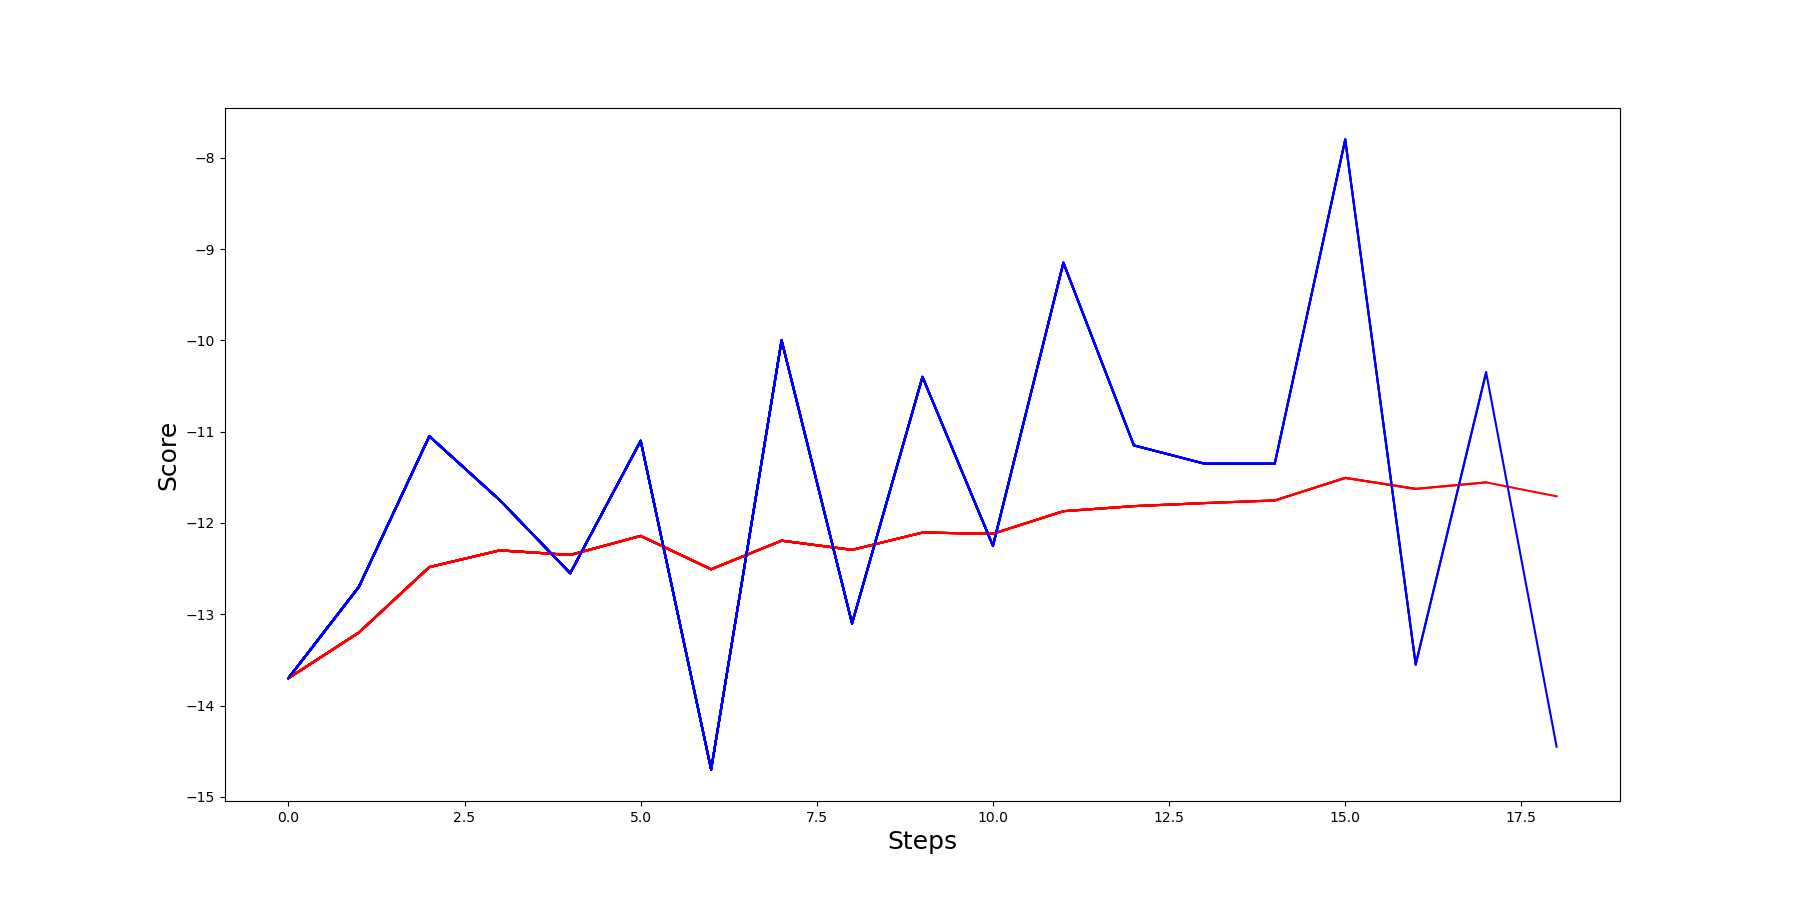
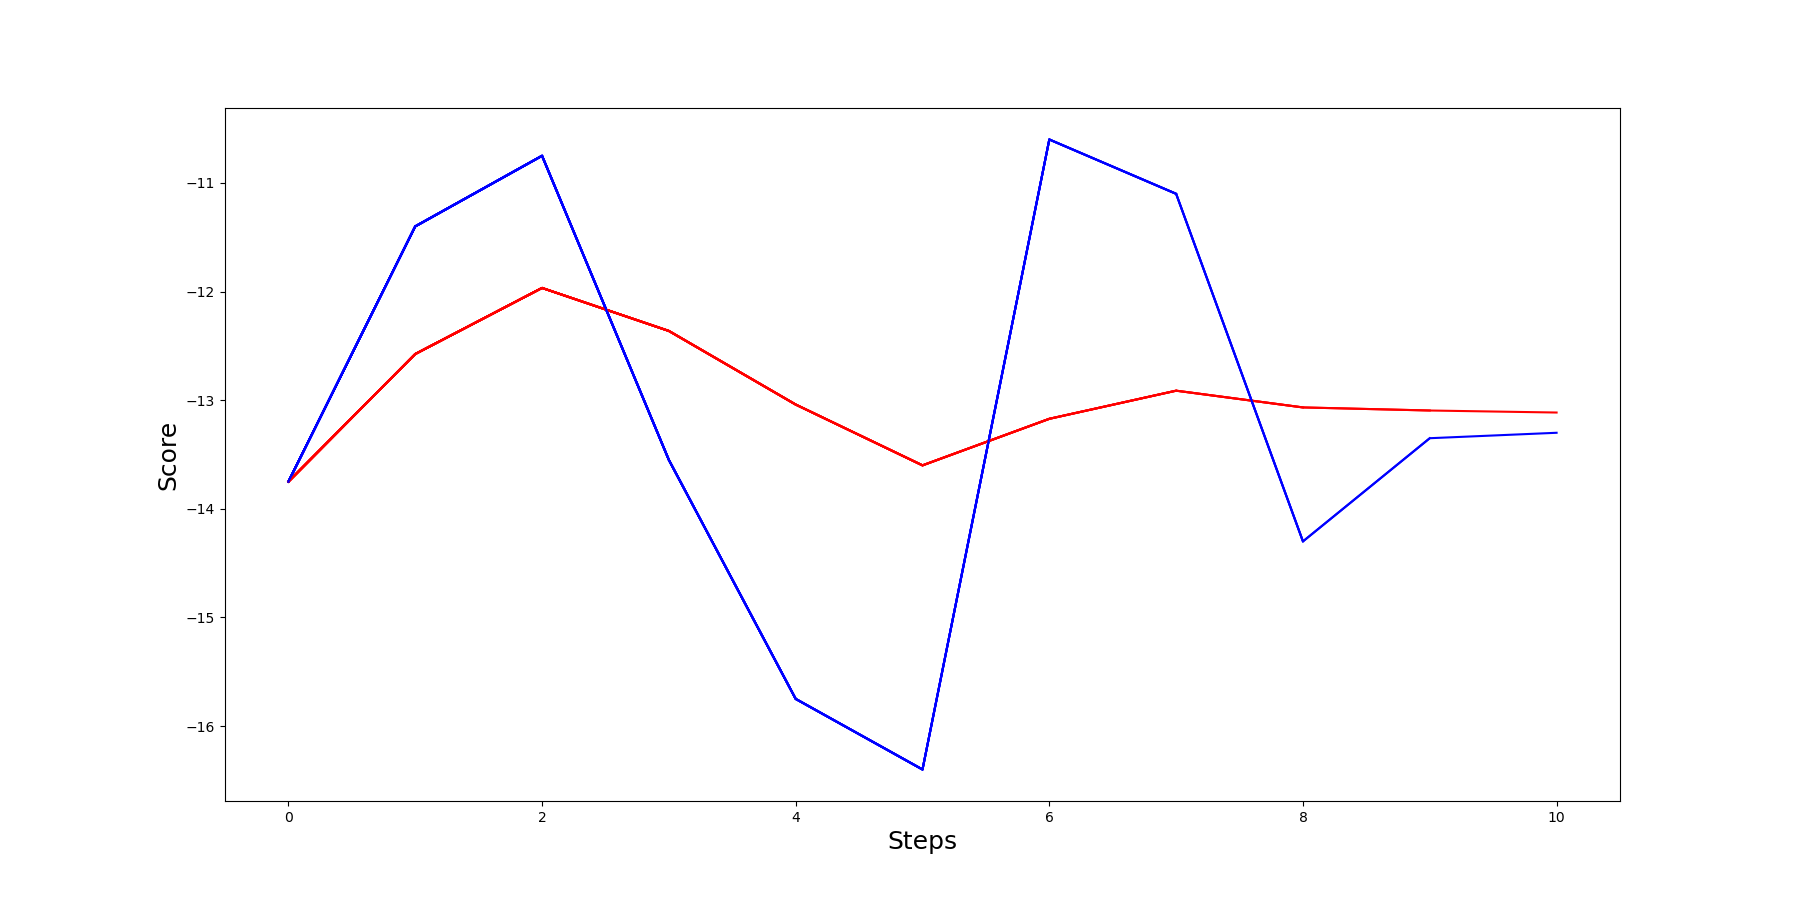
updated model

diff --git a/DQN_agent.py b/DQN_agent.py
@@ -5,7 +5,7 @@ import random
 import numpy as np
 from keras import Sequential
 from collections import deque
-from keras.layers import Dense, DepthwiseConv2D,  Lambda, Add, Average,  TimeDistributed, Conv1D, Conv2D, Subtract, Activation, LocallyConnected1D, Reshape, concatenate, Concatenate, Flatten, Input, Dropout, MaxPooling1D,  MaxPooling2D
+from keras.layers import Dense, DepthwiseConv2D,  Lambda, Add, Average, LSTM, TimeDistributed, Conv1D, Conv2D, Subtract, Activation, LocallyConnected1D, Reshape, concatenate, Concatenate, Flatten, Input, Dropout, MaxPooling1D,  MaxPooling2D
 import matplotlib.pyplot as plt
 from keras.optimizers import Adam
 from StarShip import StarShipGame
@@ -32,7 +32,16 @@ import datetime
 from keras.callbacks import History 
 env = StarShipGame(True)
  
+HUBER_LOSS_DELTA = 1.0
+def huber_loss(y_true, y_predict):
+        err = y_true - y_predict
 
+        cond = K.abs(err) < HUBER_LOSS_DELTA
+        L2 = 0.5 * K.square(err)
+        L1 = HUBER_LOSS_DELTA * (K.abs(err) - 0.5 * HUBER_LOSS_DELTA)
+        loss = tf.where(cond, L2, L1)
+
+        return K.mean(loss)
 class DQN:
 
     """ Implementation of deep q learning algorithm """
@@ -45,19 +54,22 @@ class DQN:
         self.state_space = state_space
         self.epsilon = 1
         self.gamma = .98
-        self.batch_size = 128
-        self.epsilon_min = .1
+        self.batch_size = 98
+        self.epsilon_min = .01
         self.epsilon_decay = 1e-5
         self.burn_limit = .001
         self.learning_rate = 0.00025
         self.modelname ='D3QNmodel'
-        self.memory = deque(maxlen=1000000)
+        self.memory = deque(maxlen=100000) 
+        self.optimizer_model = 'Adam'
+
         if model == None:
-            self.model = self.build_modelGPU()
+            self.model = self.build_modelPar1()
             # self.target_model = self.build_modelGPU()
         else:
             self.model = model 
             # self.target_model =model 
+       
 
 
     def saveModel(self, score="n.a"):
@@ -68,7 +80,62 @@ class DQN:
         except:
             print(self.model.name+"-" + str(DQN.currEpisode)+str(int(score)) + " not saved! ")
             pass
-    def build_modelPar(self,input_shape=(4, 100, 100,)):
+    
+
+        
+    def build_modelPar1(self,dueling = True,input_shape=(4,336,1)):
+
+        if dueling:
+            x = Input(shape=(self.state_space,))
+            t = Reshape(input_shape)(x)
+            # a series of fully connected layer for estimating V(s)
+
+            y11 = Dense(64, activation='relu')(t)
+            y12 = Dense(64, activation='relu')(y11)        
+            y12= Flatten()(y11)     
+            y13 = Dense(1, activation="linear")(y12)
+
+            # a series of fully connected layer for estimating A(s,a)
+
+            y21 = Dense(64, activation='relu')(x)
+            y22 = Dense(64, activation='relu')(y21)
+            y23 = Dense(1, activation="linear")(y22)
+            
+            # a series of fully connected layer for estimating B(s,a)
+
+            y30=  TimeDistributed(Dense(64,activation='relu'))(t)
+            y31=  TimeDistributed(Dense(64,activation='relu'))(y30)
+            y32= Flatten()(y31)
+            y33= Dense(self.action_space, activation='linear')(y32) 
+
+            w = Concatenate(axis=-1)([y13,y33])            
+
+
+            # combine V(s) and A(s,a) to get Q(s,a)
+            z = Lambda(lambda a: K.expand_dims(a[:, 0], axis=-1) + a[:, 1:] - K.mean(a[:, 1:], keepdims=True),
+                       output_shape=(self.action_space))(w)
+        else:
+            x = Input(shape=(self.state_space,))
+
+            # a series of fully connected layer for estimating Q(s,a)
+            y1 = Dense(64, activation='relu')(x)
+            y2 = Dense(64, activation='relu')(y1)
+            z = Dense(self.action_space, activation="linear")(y2)
+
+        model = Model(inputs=x, outputs=z)
+
+        if self.optimizer_model == 'Adam':
+            optimizer = Adam(lr=self.learning_rate, clipnorm=1.)
+        elif self.optimizer_model == 'RMSProp':
+            optimizer = RMSprop(lr=self.learning_rate, clipnorm=1.)
+        else:
+            print('Invalid optimizer!')
+
+        model.compile(loss=huber_loss, optimizer=optimizer)
+        model.summary()
+        return model
+
+    def build_modelPar(self,input_shape=(4, 336, 1)):
 
         self.network_size = 12*4 + 6*4 + 12
 
@@ -130,7 +197,7 @@ class DQN:
 
     
     
-    def build_modelGPU(self, input_shape=(4,1,336,1), action_space=6, dueling=True):
+    def build_modelGPU(self, input_shape=(336,4), action_space=6, dueling=True):
         self.network_size = 256
 
         X_input = Input(shape=(4*336,))
@@ -140,19 +207,20 @@ class DQN:
         y_init = initializers.glorot_uniform()
         const_init = initializers.constant(1e-2)
         X = Reshape(input_shape)(X)  
-        X =TimeDistributed(Dense(4,  activation="relu", bias_initializer=const_init, use_bias=True,  kernel_initializer=truncatedn_init))(X)        
-        X = Flatten()(X) 
-        X =Dense(512, activation="relu", kernel_initializer=x_init)(X)
-            # X = Conv2D(64, 4, strides=(2),padding="valid",activation="elu", kernel_initializer=x_init,   data_format="channels_first")(X)
+        # X =Conv1D(4,(4),(4),activation="relu",) (X)             
+        # X = Conv2D(1, (1,4), strides=(1,1),padding="same",activation="relu", kernel_initializer=x_init,   data_format="channels_first")(X)
+        X = LSTM(4, return_sequences=True, return_state=True)(X)
+        X = Flatten()(X)
+        X = Dense(512, activation="relu", kernel_initializer=x_init)(X)            
+        X =Dense(256, activation="relu", kernel_initializer=x_init)(X)
+        # X = Conv2D(64, 4, strides=(2),padding="valid",activation="elu", kernel_initializer=x_init,   data_format="channels_first")(X)
         # X = Conv2D(128, 4, strides=(2),padding="valid",activation="elu",kernel_initializer=x_init,   data_format="channels_first")(X) 3cnn
-        
         # 'Dense' is the basic form of a neural network layer
         # Input Layer of state size(4) and Hidden Layer with 512 nodes         
         # X = Dense(512, activation="relu", kernel_initializer=x_init)(X) 
-        # X = Dense(128, activation="relu", kernel_initializer=x_init)(X) 
         # X = Dense(64, activation="relu", kernel_initializer=x_init)(X)                
-        X = Dense(256, activation="relu", kernel_initializer=x_init)(X)      
-        X = Dense(64, activation="relu", kernel_initializer=x_init)(X)        
+        X = Dense(256, activation="relu", kernel_initializer=x_init)(X)                  
+        X = Dense(64, activation="relu", kernel_initializer=x_init)(X)              
         # # Hidden layer with 256 nodes
         # X = Dense(256, activation="relu", kernel_initializer=truncatedn_init, bias_initializer=const_init)(X)
         

diff --git a/tempCodeRunnerFile.py b/tempCodeRunnerFile.py
@@ -1,1 +1,1 @@
-h', '-le', type=int, default=-1) 
+n
